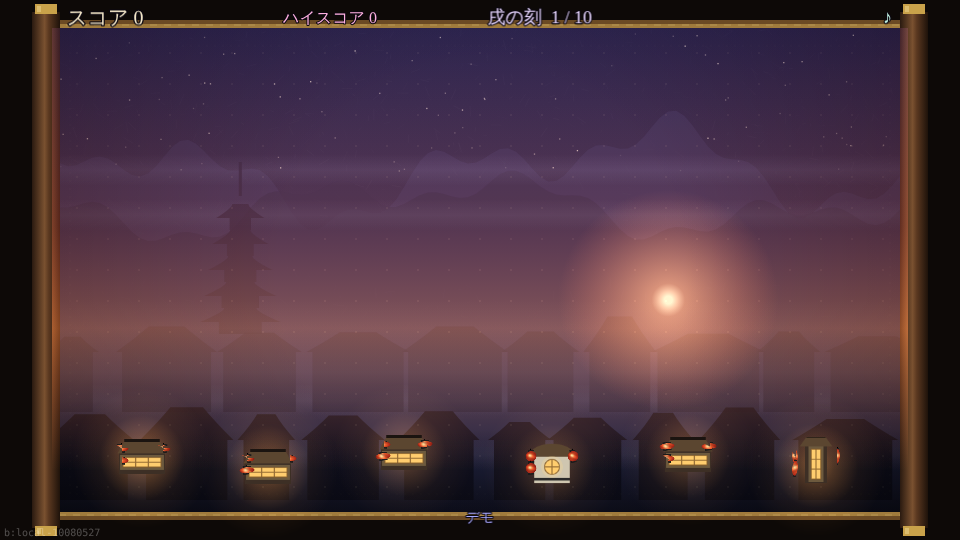
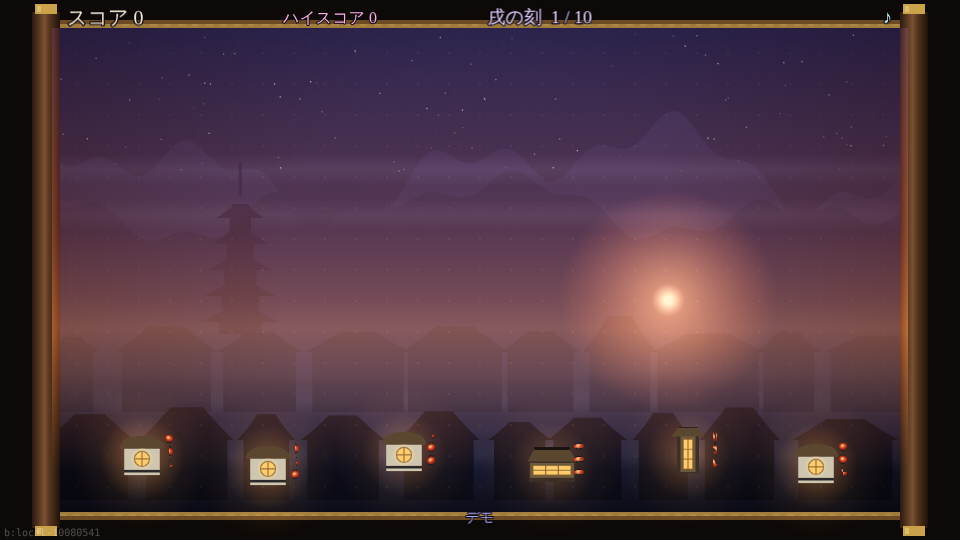
14 回目: 連爆は範囲に触れるだけで・つながる提灯が光る・軒先の提灯を縦に・ばしゅーん(連爆で音が上がる)
Claude-Session: https://claude.ai/code/session_011ZQ4bN2MTkz7EzzsNRZLay

diff --git a/src/game/logic.ts b/src/game/logic.ts
@@ -5,7 +5,7 @@
 // ミサイルコマンド(時限・アナログな位置)× ボンバーマン(置いて少しして爆発・誘爆)× ギャラガ(編隊・輪):
 //   - 投げる: 押した所へ、家から提灯がゆっくり飛び、着いて 3 秒後に弾ける(飛ぶ時間 + 3 秒を読む)。
 //   - 光は家の形どおり: 縦の家 = 縦 / 横の家 = 横 / 丸い蔵 = 周り。提灯の形も同じ(縦長 / 横長 / 丸)。
-//   - 光が届いた提灯は、すぐ弾ける(誘爆)。つなぐために置く手もある。おばけどうしは連鎖しない。
+//   - 光が、置かれた提灯の光の範囲に触れたら、その提灯もすぐ弾ける(誘爆)。つなぐために置く手もある。おばけどうしは連鎖しない。
 //   - 置かれた提灯にたどり着いたおばけは見とれて止まり、後ろはつかえて詰まる(せき止め。弾けるまで)。
 //   - おばけは決まった道筋で来る: 幽霊 = 縦・横・縦の階段 / 唐傘 = 斜めと縦のジグザグ / 鬼火 = 輪を描いてから突っ込む。
 //   - 1 回の光と誘爆の n 体目は 基本点 × n。3 連以上は連鎖ボーナス、編隊を一度に全部倒すと編隊ボーナス。
@@ -76,14 +76,14 @@ export interface Lantern {
 export interface House { x: number; y: number; lit: boolean; ammo: number; regen: number; haunt: number; flash: number; piece: Piece }
 /** 光。中心から形どおりに伸びる。ext = 伸びた長さ(px)。中心からの距離が [ext - 帯, ext] の所が光っている */
 export interface Blast { x: number; y: number; piece: Piece; ext: number; chain: number }
-export interface Chain { id: number; count: number; pts: number; lx: number; ly: number; forms: Map<number, number> }
+export interface Chain { id: number; count: number; pts: number; lx: number; ly: number; forms: Map<number, number>; bursts: number }
 
 export type GameEvent =
   | { type: 'launch'; sx: number; sy: number; x: number; y: number; house: number }
   | { type: 'select'; house: number }
   | { type: 'light'; x: number; y: number }
   | { type: 'deny'; x: number; y: number }
-  | { type: 'break'; x: number; y: number; chained: boolean }
+  | { type: 'break'; x: number; y: number; chained: boolean; n: number }
   | { type: 'caught'; x: number; y: number }
   | { type: 'purify'; x: number; y: number; n: number; pts: number; kind: GhostKind }
   | { type: 'chainEnd'; x: number; y: number; n: number; pts: number; bonus: number }
@@ -224,6 +224,31 @@ export class Game {
     }
   }
 
+  /** 光の形の上の代表点(連爆の判定と、つながりの表示に使う) */
+  shapePoints(piece: Piece, x: number, y: number): Array<[number, number]> {
+    const L = this.reach(piece), w = this.P.lightWidth / 2;
+    const pts: Array<[number, number]> = [[x, y]];
+    const line = (dx: number, dy: number) => {
+      for (const k of [0.25, 0.5, 0.75, 1]) for (const o of [-w, 0, w]) pts.push([x + dx * L * k + dy * o, y + dy * L * k + dx * o]);
+    };
+    switch (piece) {
+      case 'vline': line(0, -1); line(0, 1); break;
+      case 'hline': line(-1, 0); line(1, 0); break;
+      case 'up': line(0, -1); break;
+      case 'down': line(0, 1); break;
+      case 'cross': line(0, -1); line(0, 1); line(-1, 0); line(1, 0); break;
+      case 'area': for (let a = 0; a < 16; a++) for (const k of [0.5, 1]) pts.push([x + Math.cos((a * Math.PI) / 8) * L * k, y + Math.sin((a * Math.PI) / 8) * L * k]); break;
+    }
+    return pts;
+  }
+
+  /** 2 つの提灯の光の形が重なるか(= 片方が弾ければ、もう片方も連爆する) */
+  touches(a: { piece: Piece; tx: number; ty: number }, b: { piece: Piece; tx: number; ty: number }) {
+    if (Math.hypot(a.tx - b.tx, a.ty - b.ty) > this.reach(a.piece) + this.reach(b.piece) + this.P.lightWidth) return false;
+    return this.shapePoints(b.piece, b.tx, b.ty).some(([x, y]) => this.along(a.piece, a.tx, a.ty, x, y, 2) >= 0)
+      || this.shapePoints(a.piece, a.tx, a.ty).some(([x, y]) => this.along(b.piece, b.tx, b.ty, x, y, 2) >= 0);
+  }
+
   /** 光がいま (x, y) を照らしているか */
   lit(b: Blast, x: number, y: number, r = 0) {
     const a = this.along(b.piece, b.x, b.y, x, y, r);
@@ -235,7 +260,8 @@ export class Game {
     const c = chain ?? this.newChain(l.tx, l.ty);
     this.blasts.push({ x: l.tx, y: l.ty, piece: l.piece, ext: 0, chain: c.id });
     this.lanterns = this.lanterns.filter((q) => q !== l);
-    this.events.push({ type: 'break', x: l.tx, y: l.ty, chained: !!chain });
+    c.bursts++;
+    this.events.push({ type: 'break', x: l.tx, y: l.ty, chained: !!chain, n: c.bursts });
   }
 
   /** 1/60 秒進める */
@@ -298,7 +324,7 @@ export class Game {
   }
 
   private newChain(x: number, y: number): Chain {
-    const c: Chain = { id: this.nextId++, count: 0, pts: 0, lx: x, ly: y, forms: new Map() };
+    const c: Chain = { id: this.nextId++, count: 0, pts: 0, lx: x, ly: y, forms: new Map(), bursts: 0 };
     this.chains.set(c.id, c);
     return c;
   }
@@ -470,7 +496,8 @@ export class Game {
       if (b.ext - this.band > this.reach(b.piece) + GHOST_R) { this.blasts = this.blasts.filter((q) => q !== b); continue; }
       const chain = this.chains.get(b.chain)!;
       // 誘爆: 光が届いた提灯は、すぐ弾ける(置かれたものだけ。飛んでいるものは除く)
-      for (const l of [...this.lanterns]) if (!l.flying && this.lit(b, l.tx, l.ty, 6)) this.burst(l, chain);
+      // 連爆は、光がその提灯の光の範囲に触れるだけで起きる(提灯そのものに当たらなくてよい)
+      for (const l of [...this.lanterns]) if (!l.flying && this.shapePoints(l.piece, l.tx, l.ty).some(([x, y]) => this.lit(b, x, y, 4))) this.burst(l, chain);
       for (const g of this.ghosts) {
         if (g.dead || g.y < PLAY.y0 || !this.lit(b, g.x, g.y, GHOST_R)) continue;
         g.dead = true;

diff --git a/src/scenes/Play.ts b/src/scenes/Play.ts
@@ -4,7 +4,7 @@ import Phaser from 'phaser';
 import { Game, DT, W, H, encodeTaps, decodeTaps, type Ghost, type GameEvent, type Blast, type Piece } from '../game/logic';
 import { readParams } from '../game/params';
 import { Bot } from '../game/bot';
-import { snd, bgmStart, bgmStop, bgmIntensity } from '../game/sound';
+import { snd, bgmStart, bgmStop, bgmIntensity, preloadSfx } from '../game/sound';
 import { txt, watchName } from '../game/view';
 import { PAPER } from '../game/art';
 import { onTap } from '../ui/taps';
@@ -19,7 +19,7 @@ import { isMuted, toggleMuted } from '../core/audio';
 const GHOST_TEX = { fuwa: 'g_fuwa', oni: 'g_oni', kasa: 'g_kasa' } as const;
 const GHOST_GLOW = { fuwa: 0x8fb4ff, oni: 0x40e0a0, kasa: 0xb070ff } as const;
 /** 軒先の提灯の位置(家の中心から) */
-const HANG: ReadonlyArray<[number, number]> = [[-21, -4], [21, -4], [-21, 8]];
+const HANG: ReadonlyArray<[number, number]> = [[27, -14], [27, -1], [27, 12]];
 
 export class Play extends Phaser.Scene {
   private game2!: Game;
@@ -80,7 +80,7 @@ export class Play extends Phaser.Scene {
       const key = `house_${h.piece}`;
       const img = this.add.image(h.x, h.y + 22, `${key}_lit`).setOrigin(0.5, 0.92).setScale(0.68).setDepth(2);
       // 軒先に下がる提灯(この家から飛ばせる数。ミサイルコマンドの基地の弾)
-      const hang = HANG.map(([dx, dy]) => this.add.image(h.x + dx, h.y + dy, `lantern_${h.piece}`).setScale(0.3).setDepth(3));
+      const hang = HANG.map(([dx, dy]) => this.add.image(h.x + dx, h.y + dy, `lantern_${h.piece}`).setScale(0.22).setDepth(3));
       this.houseImgs.push({ img, glow, hang, key });
     }
     this.fx = this.add.graphics().setDepth(5);
@@ -115,6 +115,7 @@ export class Play extends Phaser.Scene {
     this.events.once('shutdown', () => { this.offTap?.(); this.offTap = null; bgmStop(); });
 
     bgmStart();
+    preloadSfx();
     this.updateHud();
   }
 
@@ -172,7 +173,7 @@ export class Play extends Phaser.Scene {
         break;
       }
       case 'break':
-        snd.break(e.chained ? 1 : 0);
+        snd.break(e.n);
         this.shards.explode(14, e.x, e.y);
         this.sparks.explode(12, e.x, e.y);
         break;
@@ -319,7 +320,7 @@ export class Play extends Phaser.Scene {
       o.img.setPosition(h.x + (panic ? Math.sin(time * 60) * 1.5 : 0), h.y + 22);
       o.glow.setVisible(h.lit).setAlpha(panic ? (flick ? 0.5 : 0.15) : 0.45 + 0.1 * Math.sin(time * 3 + i));
       o.img.setScale(0.68 * (1 + h.flash * 0.25));
-      o.hang.forEach((hg, k) => hg.setVisible(h.lit && k < h.ammo).setAngle(Math.sin(time * 1.5 + k + i) * 6));
+      o.hang.forEach((hg, k) => hg.setVisible(h.lit && k < h.ammo).setAngle(Math.sin(time * 1.5 + k + i) * 4));
     });
     // 選んだ家: 家の人が提灯を掲げて待つ(家のマスの縁がほんのり明るい)
     this.selFx.clear();
@@ -405,11 +406,23 @@ export class Play extends Phaser.Scene {
       this.fx.lineBetween(tx - 6, ty + 6, tx + 6, ty - 6);
     }
     this.glowFx.clear();
-    // 下がった提灯の明かりが、模様の形にうっすらこぼれる(弾けたら光がここを伸びる。印ではなく提灯の明かり)
-    for (const l of g.lanterns) {
-      if (l.flying) continue;
-      this.drawShape(l.piece, l.tx, l.ty, g.reach(l.piece), 0, 0xffb060, 0.05 + 0.06 * Math.min(1, l.age / P.fuse));
-    }
+    // 置かれた提灯の光の範囲: うっすら塗って、輪郭を引く(弾けたら光がここを伸びる)。
+    // 範囲が重なって連爆する提灯どうしは、輪郭が金色に光り、線でつながる(飛んでいる提灯は着く所で)
+    const ls = g.lanterns;
+    const linked = ls.map((a, i) => ls.some((b, j) => j !== i && g.touches(a, b)));
+    const pulse = 0.65 + 0.35 * Math.sin(time * 6);
+    ls.forEach((l, i) => {
+      const L = g.reach(l.piece);
+      if (!l.flying) this.drawShape(l.piece, l.tx, l.ty, L, 0, 0xffb060, 0.05 + 0.06 * Math.min(1, l.age / P.fuse));
+      if (linked[i]) this.outlineShape(l.piece, l.tx, l.ty, 0xffd860, 0.85 * pulse, 2.5);
+      else this.outlineShape(l.piece, l.tx, l.ty, 0xffb060, l.flying ? 0.22 : 0.4, 1.2);
+      for (let j = i + 1; j < ls.length; j++) {
+        if (!g.touches(l, ls[j])) continue;
+        this.fx.lineStyle(2, 0xffe080, 0.7 * pulse);
+        const n = 10, dx = (ls[j].tx - l.tx) / n, dy = (ls[j].ty - l.ty) / n;
+        for (let k = 0; k < n; k += 2) this.fx.lineBetween(l.tx + dx * k, l.ty + dy * k, l.tx + dx * (k + 1), l.ty + dy * (k + 1));
+      }
+    });
     // 光: 家の形どおりに、帯になって伸びる
     for (const b of g.blasts) this.drawBlast(b);
 
@@ -444,6 +457,21 @@ export class Play extends Phaser.Scene {
       case 'down': seg(0, 1); break;
       case 'cross': seg(0, -1); seg(0, 1); seg(-1, 0); seg(1, 0); break;
       case 'area': fx.fillCircle(x, y, to); break;
+    }
+  }
+
+  /** 光の形の輪郭(連爆の届く範囲を見せる) */
+  private outlineShape(piece: Piece, x: number, y: number, col: number, a: number, lw: number) {
+    const g = this.game2, fx = this.fx, w = g.P.lightWidth / 2, L = g.reach(piece);
+    fx.lineStyle(lw, col, a);
+    const box = (l: number, t: number, ww: number, hh: number) => fx.strokeRoundedRect(l, t, ww, hh, Math.min(8, w));
+    switch (piece) {
+      case 'vline': box(x - w, y - L, w * 2, L * 2); break;
+      case 'hline': box(x - L, y - w, L * 2, w * 2); break;
+      case 'up': box(x - w, y - L, w * 2, L + w); break;
+      case 'down': box(x - w, y - w, w * 2, L + w); break;
+      case 'cross': box(x - w, y - L * 0.7, w * 2, L * 1.4); box(x - L * 0.7, y - w, L * 1.4, w * 2); break;
+      case 'area': fx.strokeCircle(x, y, L); break;
     }
   }
 

diff --git a/src/game/sound.ts b/src/game/sound.ts
@@ -2,7 +2,7 @@
 // 効果音は WebAudio の合成(和の楽器に寄せる: 太鼓・鈴・拍子木・寺の鐘・篠笛の息)。core/audio の残響を通る。
 // BGM は魔王魂(CC BY 4.0、表記: 音楽：魔王魂)。タイトル =「揺れる提灯」(民族09)、遊ぶ間 =「和bravery heart」(民族33、和風の戦闘曲)。
 // 読めない時は合成の爪弾きに切り替える。
-import { tone, noise, audioNow, toneAt, isMuted, loadBuffer, playLoop, voice } from '../core/audio';
+import { tone, noise, audioNow, toneAt, isMuted, loadBuffer, playLoop, voice, playSample } from '../core/audio';
 import { tune } from '../core/tuning';
 
 // 都節音階(D E♭ G A B♭)。和の夜の響き
@@ -56,10 +56,15 @@ export const snd = {
   },
   saved: () => [0, 2, 4].forEach((k, i) => rin(note(7 + k), 0.04, i * 0.07, 1)),
   deny: () => wood(500, 0.05),
-  /** 提灯が弾けた: 太鼓 + 和紙が裂ける。誘爆は高めの太鼓 */
-  break: (chained: number) => {
-    taiko(0.15, 0, chained ? 130 : 95);
-    noise({ dur: 0.25, gain: 0.07, freq: 3200, slide: 1500, q: 0.6 });
+  /**
+   * 提灯が弾けた: ばしゅーん(Kenney の CC0 音を 2 つ重ねたもの)+ 太鼓。
+   * 連爆の n 個目ほど、都節の音階で高くなる(5 個目で 1 オクターブ上)。読めない時は合成だけ
+   */
+  break: (n: number) => {
+    const step = MIYAKO[Math.min(n - 1, MIYAKO.length - 1)];
+    if (boomBuf) playSample(boomBuf, 0.55, 2 ** (step / 12));
+    else noise({ dur: 0.25, gain: 0.07, freq: 3200, slide: 1500, q: 0.6 });
+    taiko(0.12, 0, 95 * 2 ** (step / 12));
   },
   burnout: () => noise({ dur: 0.4, gain: 0.06, freq: 600, q: 2 }),
   /** n 体目の成仏: 鈴が音階を上っていく */
@@ -89,6 +94,12 @@ export const snd = {
         pitch: [[0, 700 * pitch], [0.6, 480 * pitch]], f1: [[0, 300], [0.6, 300]], f2: [[0, 2400], [0.6, 2200]] }); }
   },
 };
+
+/** 都節音階の半音(0 = 元の高さ、12 = 1 オクターブ上) */
+const MIYAKO = [0, 1, 5, 7, 8, 12, 13, 17, 19, 20, 24];
+let boomBuf: AudioBuffer | null = null;
+/** 効果音のファイルを読んでおく(遊ぶ前に 1 回) */
+export function preloadSfx() { if (!boomBuf) loadBuffer('./audio/se_boom.mp3').then((b) => { boomBuf = b; }); }
 
 /** 曲ごとのループ点(曲頭の無音を飛ばし、拍の推定から小節の切れ目で戻す。ffmpeg の silencedetect と拍の自己相関で決めた) */
 const TRACKS = {

diff --git a/src/core/audio.ts b/src/core/audio.ts
@@ -199,3 +199,15 @@ export function voice(o: {
   src.stop(t0 + o.dur + 0.05); lfo.stop(t0 + o.dur + 0.05);
   if (o.consonant) noise({ dur: o.consonant, gain: gain * 1.2, freq: 3500, q: 1.5, delay: o.delay });
 }
+
+/** 読み込んだ効果音を 1 回鳴らす。rate = 再生の速さ(2 で 1 オクターブ上) */
+export function playSample(buf: AudioBuffer, gain = 0.5, rate = 1, delay = 0) {
+  if (muted) return;
+  const c = ensure();
+  if (!c) return;
+  const src = c.createBufferSource();
+  src.buffer = buf; src.playbackRate.value = rate;
+  const g = c.createGain(); g.gain.value = gain;
+  src.connect(g).connect(out(c));
+  src.start(c.currentTime + delay);
+}

diff --git a/SPEC.md b/SPEC.md
@@ -21,13 +21,13 @@
 - ミサイルコマンド(時限・アナログな位置)× ボンバーマン(置いて少しして爆発・誘爆)× ギャラガ(編隊・輪)。サイン(タイマー・数字・警告)は出さない。位置はすべて px、細かいマス目は交わる所の点だけ(目安)。
 - 家 6 軒は一番下。形は 縦・横・丸 の 3 種で、どれも必ず 1 軒以上、どこに建つかは毎回変わる。家の窓明かり・軒先の提灯・飛ぶ提灯の形 = 光の形(縦に 3 つつながった窓 / 横に 3 つ / 丸い窓。縦長 / 横長 / 丸の提灯)。
 - 投げる: 押した所へ、一番近い家から提灯がゆっくり(140px/秒)飛び、**着いて 3 秒後に弾ける**(つまみ `lantern.fuse`)。家をタップして選べば、その家から投げる。同時に 3 つまで。重ねては置けない。
-- 光: 縦・横は中心から 72px・太さ 30px、丸は半径 56px。帯になって伸び、触れたおばけは成仏。**光が届いた提灯はすぐ弾ける**(誘爆。つなぐために置く手もある)。おばけどうしは連鎖しない。
+- 光: 縦・横は中心から 72px・太さ 30px、丸は半径 56px。帯になって伸び、触れたおばけは成仏。**光が、置かれた提灯の光の範囲に触れるだけで、その提灯もすぐ弾ける**(誘爆。つなぐために置く手もある)。範囲が重なって連爆する提灯どうしは、輪郭が金色に光って点線でつながる(飛んでいる提灯は着く所で)。おばけどうしは連鎖しない。
 - せき止め: 置かれた提灯に着いたおばけは見とれて止まり、後ろは止まったおばけの手前でつかえる(弾けるまで)。
 - おばけ(決まった道筋): 幽霊 = 縦に降り、横へ渡り、また縦(階段)/ 唐傘 = 斜めと縦を交互(ジグザグ)/ 鬼火 = 輪を 1 周描いてから突っ込む(ギャラガ。輪の間は丸が有利)。巻物の上の外から降りてくる。
 - 得点: 1 回の光と誘爆の n 体目は 10 × n 点。3 連以上は連鎖ボーナス 50 ×(n-2)²。一緒に来た編隊を一度に全部倒すと編隊ボーナス 100 × 数 × 刻(大きく表示)。ハイスコアを画面上に出す。8 連以上で消えた家が 1 つ戻る。
 - 刻(src/game/waves.ts): **全 10 刻でクリア**。1 刻目は一列だけ、2 刻目から型を重ねる(一列 / 横並び / 階段 / 交差 / ジグザグ / 輪 / せき止め)。
 - 空: 1 刻目は夕焼け、5 刻目までにだんだん夜になり、月が昇る。
 - 家: おばけが入ると中の人が騒ぎ、1.5 秒で灯りが消えて、小さなドット絵の人が「キャー!」「ワー!」と叫びながら走って逃げる(文字 + 合成の声)。全部消えたら終わり。
-- 弾: 軒先の提灯(1 軒 3 つ)。6 秒に 1 つ戻る。
-- 音: BGM は魔王魂(タイトル「揺れる提灯」、遊ぶ間「和bravery heart」)。効果音は和の楽器の合成(太鼓・鈴・拍子木・寺の鐘)。
+- 弾: 軒先の提灯(1 軒 3 つ。家の右横に縦に並ぶので残りが一目で分かる)。6 秒に 1 つ戻る。
+- 音: BGM は魔王魂(タイトル「揺れる提灯」、遊ぶ間「和bravery heart」)。効果音は和の楽器の合成(太鼓・鈴・拍子木・寺の鐘)。弾ける音は「ばしゅーん」(Kenney の CC0 音を 2 つ重ねた)で、連爆の n 個目ほど都節の音階で高くなる(5 個目で 1 オクターブ上)。
 - 絵: 手続きで描く。`public/art/manifest.json` でキーごとに画像へ差し替えられる(tools/art/)。

diff --git a/CREDITS.md b/CREDITS.md
@@ -8,7 +8,8 @@
 | 絵すべて(巻物・夜の都の遠景・家・提灯・おばけ 3 種・月) | 手続き生成のコード(Claude が書いた Canvas2D の描画) | `src/game/art.ts` | この repo のライセンス | 不要 | 全画面 | |
 | BGM「揺れる提灯」(民族09) | 魔王魂(森田交一)の配布音源 | https://maou.audio/bgm_ethnic09/ | CC BY 4.0(魔王魂の規約も可) | 音楽：魔王魂 | タイトルの BGM(`public/audio/bgm_chochin.mp3`) | |
 | BGM「和bravery heart」(民族33) | 魔王魂(森田交一)の配布音源 | https://maou.audio/bgm_ethnic33/ | CC BY 4.0(魔王魂の規約も可) | 音楽：魔王魂 | 遊ぶ間の BGM(`public/audio/bgm_battle.mp3`。112kbps に変換、ループ点を推定) | |
-| 効果音すべて(太鼓・鈴・拍子木・寺の鐘・逃げる人の叫び声など) | 手続き生成のコード(Claude が書いた WebAudio 合成。残響も合成) | `src/game/sound.ts` `src/core/audio.ts` | この repo のライセンス | 不要 | 全場面 | |
+| 弾ける音「ばしゅーん」 | Kenney「Sci-Fi Sounds」の laserLarge_001 と lowFrequency_explosion_001 を ffmpeg で重ねたもの | https://kenney.nl/assets/sci-fi-sounds | CC0 | 不要(任意: Kenney) | 提灯が弾ける音(`public/audio/se_boom.mp3`) | |
+| ほかの効果音すべて(太鼓・鈴・拍子木・寺の鐘・逃げる人の叫び声など) | 手続き生成のコード(Claude が書いた WebAudio 合成。残響も合成) | `src/game/sound.ts` `src/core/audio.ts` | この repo のライセンス | 不要 | 全場面 | |
 | 文字 | 端末の明朝体フォント(読み込みなし) | — | 端末に依存 | 不要 | 文字 | |
 
 ※ `public/art/manifest.json` で絵を画像に差し替えた時は、その画像の行をここに足す(作ったモデル名・ライセンス)。作り方は `tools/art/README.md`。

diff --git a/HANDOFF.md b/HANDOFF.md
@@ -7,7 +7,8 @@
 - おばけは決まった道筋: 階段(縦・横)/ ジグザグ(斜めと縦)/ 輪(ギャラガ)。置かれた提灯で止まり、後ろが詰まる。
 - 得点: 連鎖ボーナス・編隊ボーナス(大きく表示)・ハイスコア。全 10 刻でクリア。夕方から夜へ。家から小さなドット絵の人が逃げる。
 - 家の灯りが消えると、逃げる人の頭の上に「キャー!」「ワー!」「ひぃ〜!」が出て、合成の叫び声が鳴る(core/audio の voice: のこぎり波 + 母音の共鳴 2 つ)。
-- 詳しくは SPEC.md「作った結果」と DECISIONS.md の 13 回目。
+- 連爆は光が提灯の光の範囲に触れるだけで起きる。つながる提灯は輪郭が金色に光り点線でつながる。弾ける音は「ばしゅーん」(Kenney CC0)で、連爆ごとに音が上がる。
+- 詳しくは SPEC.md「作った結果」と DECISIONS.md の 13・14 回目。
 
 ## 確認できたこと(この環境)
 - tsc / build / test:replay / sim(決定性・記録再生 OK)/ check.mjs エラーなし / 人と同じ操作で遊んでエラー 0、読み込み失敗 0。

diff --git a/QUESTIONS.md b/QUESTIONS.md
@@ -34,3 +34,4 @@
 - [ ] (13 回目)「飛んでいる提灯を押して下げる」操作はやめた(3 秒の待ちが下げる役を兼ねる。覚えることを減らす)。戻すなら git の 0286f1e。
 - [ ] (13 回目)10 刻でクリア。クリア後に「二夜目」(続き)を出すかは、遊んでから決める(waves.ts は 11 刻目以降も混ぜて作れる)。
 - [ ] (13 回目)遊ぶ間の BGM は魔王魂「和bravery heart」(和風の戦闘曲)。ループ点は推定(0.34 秒〜 47 × 4 拍)。
+- [ ] (14 回目)「ばしゅーん」は Kenney の音 2 つを重ねたもの(聴かずに、音の特徴で選んだ)。気に入らなければ public/audio/se_boom.mp3 を差し替える。
